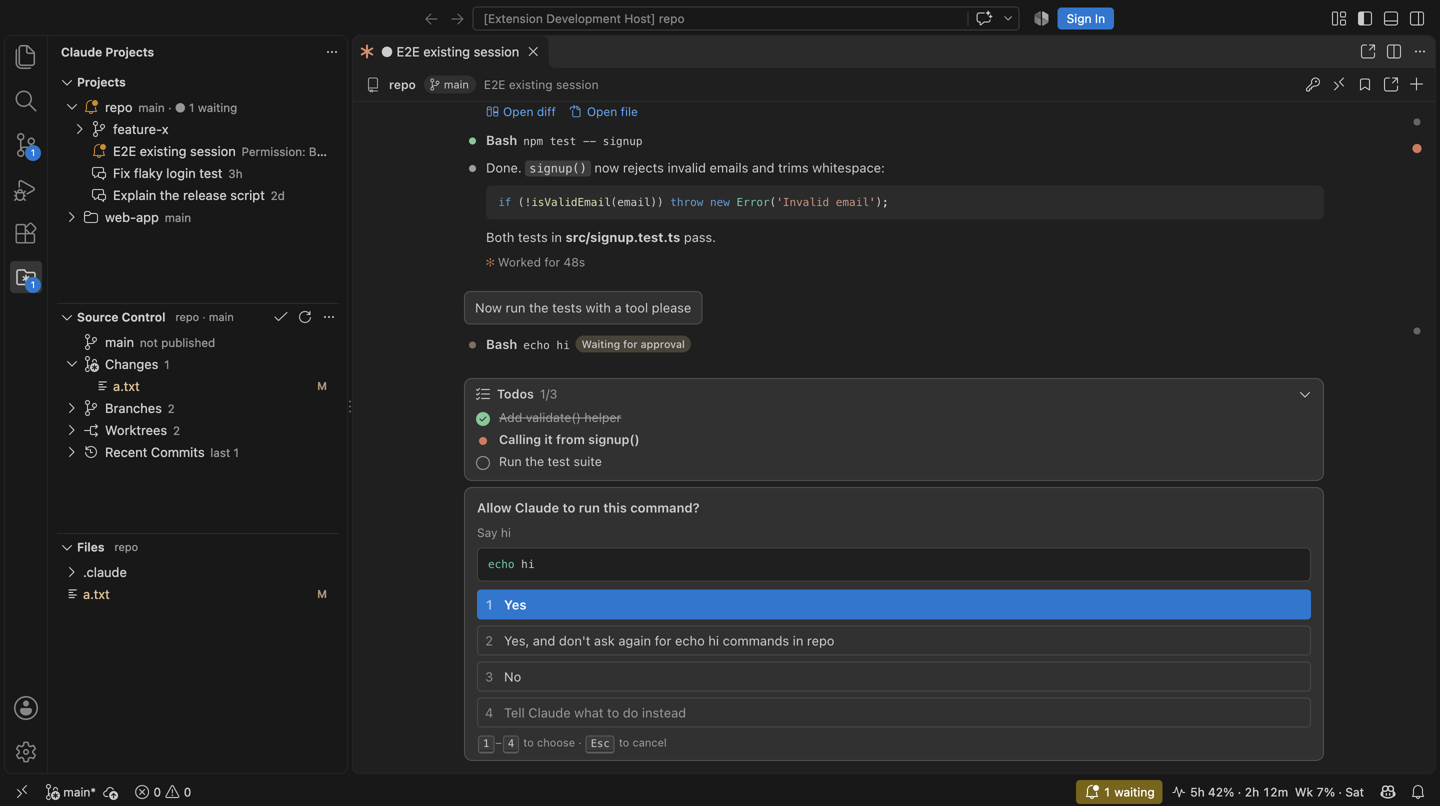
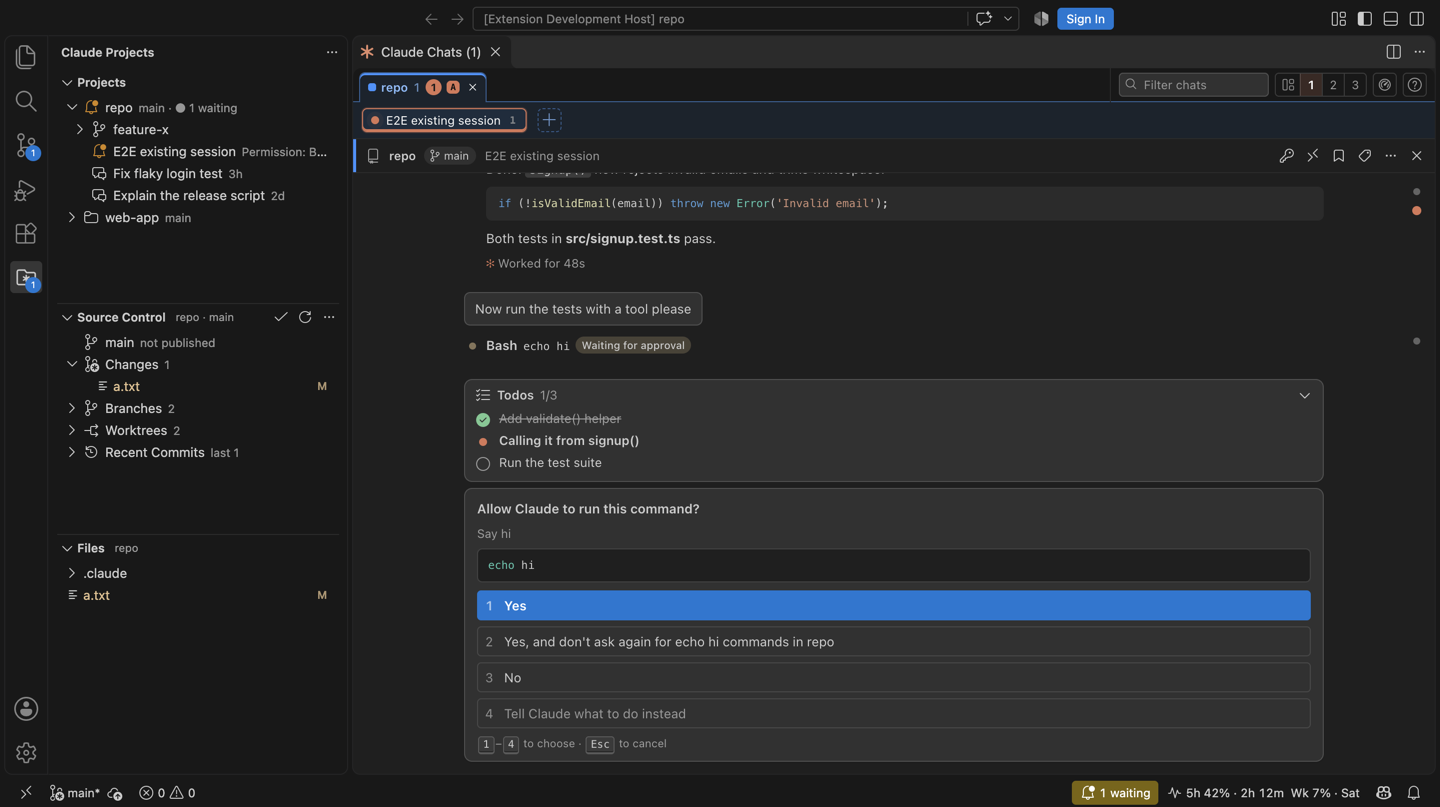
README: lead with Claude Chats, new screenshots and tour GIF
Fresh screenshots from the visual passes (chats now in Claude Chats), two
new ones (Claude Chats, the strip's right-click menu with flags), a rebuilt
tour GIF, and wording that no longer assumes a tab per chat. The hub
visual pass uses a neutral project name.

diff --git a/test/e2e/hub-visual.ts b/test/e2e/hub-visual.ts
@@ -82,7 +82,7 @@ export async function run(): Promise<void> {
   await api.store.add(process.env.CP_E2E_REPO2!);
   await api.store.add(mobile);
   await api.store.add(infra);
-  await api.store.rename(p1.id, 'FeBundi');
+  await api.store.rename(p1.id, 'shop-api');
   api.store.select(p1.id);
   await vscode.commands.executeCommand('workbench.view.extension.claudeProjects');
   await vscode.commands.executeCommand('workbench.action.closeAuxiliaryBar');

diff --git a/README.md b/README.md
@@ -2,11 +2,24 @@
 
 Work on all your projects with Claude Code from one VS Code window: no more one window per project and alt-tabbing to find the session that is waiting for you.
 
-![A tour: a chat waiting for permission, forking from a reply, the shared .env, prompt presets, continuing after a usage limit, and the sessions dashboard](docs/images/tour.gif)
+![A tour: Claude Chats with two chats side by side, a chat waiting for permission, flags, forking from a reply, the shared .env, prompt presets, continuing after a usage limit, and the sessions dashboard](docs/images/tour.gif)
 
 ## What you get
 
-**Sessions dashboard** (`pulse` button in the Projects view, or click the usage item in the status bar): every running Claude session across all projects — the ones here, in terminals, in other VS Code windows and in the Claude app — with the ones waiting for you at the top. Permission prompts can be answered right from the dashboard. Use the × on an idle card (or **Close all**) to close it: its tab closes and idle Claude processes stop and resume on your next message. Idle sessions in a terminal can be ended too, after a confirm.
+**Claude Chats** (speech-bubble button in the Projects view): one tab holds every chat you have open here, so they don't scatter across the tab bar. A strip on top has two rows: your projects with open chats, then the chats of the project you pick. Each project has its own colour, and its tab counts chats that need you, are running or finished. Up to three chats show side by side (the **1 2 3** buttons); the focused one has an orange line.
+
+![Claude Chats: a strip with four projects and the chats of the selected one, above two chats side by side, one of them asking for permission](docs/images/claude-chats.png)
+
+Chats keep their place when you switch between them (Main is pinned first); drag chats and project tabs to reorder them, and double-click a project to open the chat you were last in there. Hover a tab or chat for a × that closes it. Keys: **1–9** show a chat of the selected project, **Alt+1–9** pick a project, **Esc** stops Claude in the focused chat, middle-click closes a chat. A chat that finishes keeps its green check until you click or type in it, even if it's on screen. The **Projects** view still lists every session, closed ones included; the strip is only for open chats.
+
+- **Flags**: mark a session **Main** (pinned first in its project), **Review** (Claude is done, check the result), **Waiting** (blocked on a PR, CI or a person), **Parked** (later) or **Trash** (to delete). Right-click a chat in the strip, use the tag in the chat's header, or *Flag Session…* in the Projects view. Flags show in the strip, the Projects view and the dashboard. **Delete N trashed** deletes a project's trashed chats after one confirmation.
+
+  ![Right-clicking a chat in the strip: flags, showing it in a pane, popping it out](docs/images/flags.png)
+
+- **Pop out**: a chat's `…` menu (or right-click in the strip) moves it to a tab of its own; the button in that tab's header moves it back. To always use one tab per chat, set `claudeProjects.chat.openIn` to `tab`.
+- **What's new**: *Claude Projects: What's New* (in the Projects view's `…` menu) shows what changed in each version.
+
+**Sessions dashboard** (`pulse` button in the Projects view, or click the usage item in the status bar): every running Claude session across all projects — the ones here, in terminals, in other VS Code windows and in the Claude app — with the ones waiting for you at the top. Permission prompts can be answered right from the dashboard. Use the × on an idle card (or **Close all**) to close it: its chat closes and idle Claude processes stop and resume on your next message. Idle sessions in a terminal can be ended too, after a confirm.
 
 ![The sessions dashboard with plan usage, sessions that need you, running and recent sessions](docs/images/dashboard.png)
 
@@ -22,11 +35,6 @@ Work on all your projects with Claude Code from one VS Code window: no more one 
 **Files view**: the selected project's files and folders (respects `files.exclude`, dims git-ignored files, shows git status). Right-click a folder → *Open in New Window*.
 
 ![Files view with the New File box](docs/images/files-new-file.png)
-
-**Claude Chats** (speech-bubble button in the Projects view): one tab holds every chat you have open here, so they don't scatter across the tab bar. A strip on top has two rows: your projects with open chats, then the chats of the project you pick. Each project has its own colour, and its tab counts chats that need you, are running or finished. Up to three chats show side by side (the **1 2 3** buttons); the focused one has an orange line. Chats keep their place when you switch between them (Main is pinned first); drag chats and project tabs to reorder them, and double-click a project to open the chat you were last in there. Hover a tab or chat for a × that closes it. Keys: **1–9** show a chat of the selected project, **Alt+1–9** pick a project, **Esc** stops Claude in the focused chat, middle-click closes a chat. A chat that finishes keeps its green check until you click or type in it, even if it's on screen. The **Projects** view still lists every session, closed ones included; the strip is only for open chats.
-
-- **Flags**: mark a session **Main** (pinned first in its project), **Review** (Claude is done, check the result), **Waiting** (blocked on a PR, CI or a person), **Parked** (later) or **Trash** (to delete). Right-click a chat in the strip, use the tag in the chat's header, or *Flag Session…* in the Projects view. Flags show in the strip, the Projects view and the dashboard. **Delete N trashed** deletes a project's trashed chats after one confirmation.
-- **Pop out**: a chat's `…` menu (or right-click in the strip) moves it to a tab of its own; the button in that tab's header moves it back. To always use one tab per chat, set `claudeProjects.chat.openIn` to `tab`.
 
 **Sessions**
 
@@ -64,10 +72,10 @@ Click a session to open it here (**Open Here**), in Claude Chats. It runs throug
 
   ![An MCP server asking for deploy settings](docs/images/mcp-input.png)
 
-- **Names that stick**: renamed and forked chats keep their names, in the tab and after a restart.
-- **Open in Claude Extension**: opens the session in its own window, in the official Claude Code extension. This button is also in the chat tab's title bar. To make it what clicking a session does, set `claudeProjects.sessions.defaultOpenMode`.
+- **Names that stick**: renamed and forked chats keep their names, everywhere and after a restart.
+- **Open in Claude Extension**: opens the session in its own window, in the official Claude Code extension. In Claude Chats it's in the chat's `…` menu. To make it what clicking a session does, set `claudeProjects.sessions.defaultOpenMode`.
 
-**Attention**: a badge on the activity bar icon, a "waiting" item in the status bar (click it to jump to the next session that needs you), a dot in the chat tab title, and a system notification when a session needs you while VS Code is in the background. On Windows it is a toast, and clicking it opens the session. On macOS, clicking opens the session if [terminal-notifier](https://github.com/julienXX/terminal-notifier) is installed (`brew install terminal-notifier`).
+**Attention**: a badge on the activity bar icon, a "waiting" item in the status bar (click it to jump to the next session that needs you), an orange badge on the project in the Claude Chats strip, and a system notification when a session needs you while VS Code is in the background. On Windows it is a toast, and clicking it opens the session. On macOS, clicking opens the session if [terminal-notifier](https://github.com/julienXX/terminal-notifier) is installed (`brew install terminal-notifier`).
 
 **Usage bar**: your plan's 5-hour and weekly usage with reset times in the status bar (hover for details, including per-model weekly limits). The numbers come from Claude Code itself (the same as `/usage`); the extension never reads your credentials.
 
@@ -97,7 +105,7 @@ Windows differences:
 |---|---|---|
 | `claudeProjects.sessions.defaultOpenMode` | `here` | What clicking a session does (`here` or `claudeExtension`). |
 | `claudeProjects.sessions.maxPerProject` | `8` | Sessions listed per project/worktree before "Show more". |
-| `claudeProjects.sessions.idleProcessTimeoutMinutes` | `30` | Stop an idle Claude process whose tab is closed (it resumes on your next message). |
+| `claudeProjects.sessions.idleProcessTimeoutMinutes` | `30` | Stop an idle Claude process whose chat isn't on screen (it resumes on your next message). |
 | `claudeProjects.chat.defaultPermissionMode` | `default` | Mode for new sessions here. |
 | `claudeProjects.chat.defaultModel` | — | Model for new sessions here (empty = your Claude Code default). |
 | `claudeProjects.chat.defaultEffort` | — | Effort for new sessions here (empty = the model default). |
@@ -110,7 +118,7 @@ Windows differences:
 | `claudeProjects.chat.showYoloAutoMode` | `true` | Offer "Yolo auto" in the mode picker (turn off to hide it). |
 | `claudeProjects.chat.showThinking` | `true` | Show Claude's thinking summaries. |
 | `claudeProjects.terminal.location` | `editor` | Where *Open in Integrated Terminal* opens: `editor` (a tab at the top, next to your chats) or `panel` (the bottom terminal panel). |
-| `claudeProjects.followActiveSession` | `true` | Switching chat tabs switches Source Control and Files to that session's project. |
+| `claudeProjects.followActiveSession` | `true` | Switching chats switches Source Control and Files to that session's project. |
 | `claudeProjects.notifications.*` | on | System notifications on macOS and Windows (only while VS Code is in the background, sound, turn-complete, sessions outside this window, in-app toasts). |
 | `claudeProjects.dashboard.showAllProjects` | `true` | Also show sessions from folders that are not in your project list. |
 | `claudeProjects.usage.refreshIntervalMinutes` | `5` | How often usage refreshes (running sessions also update it live). |
